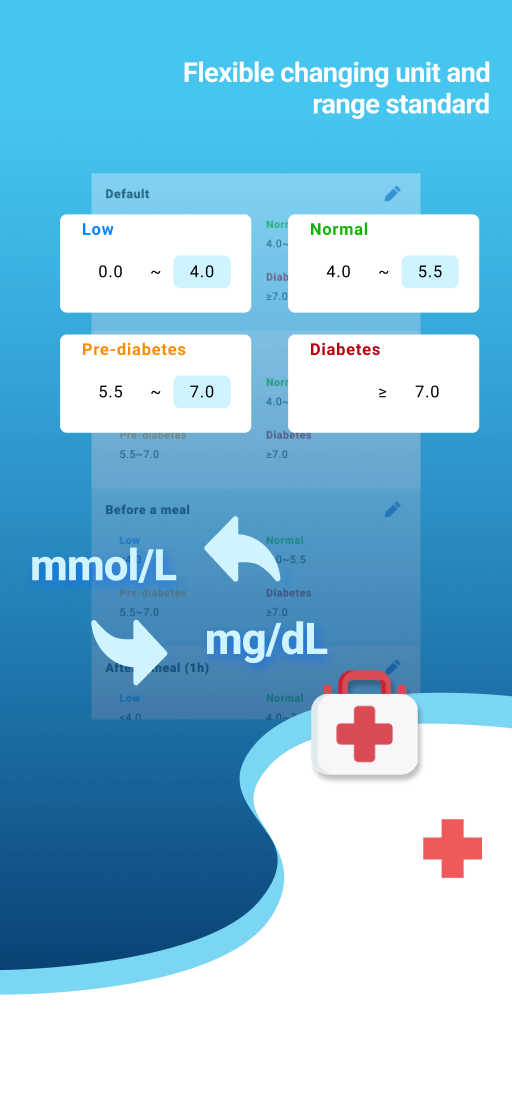
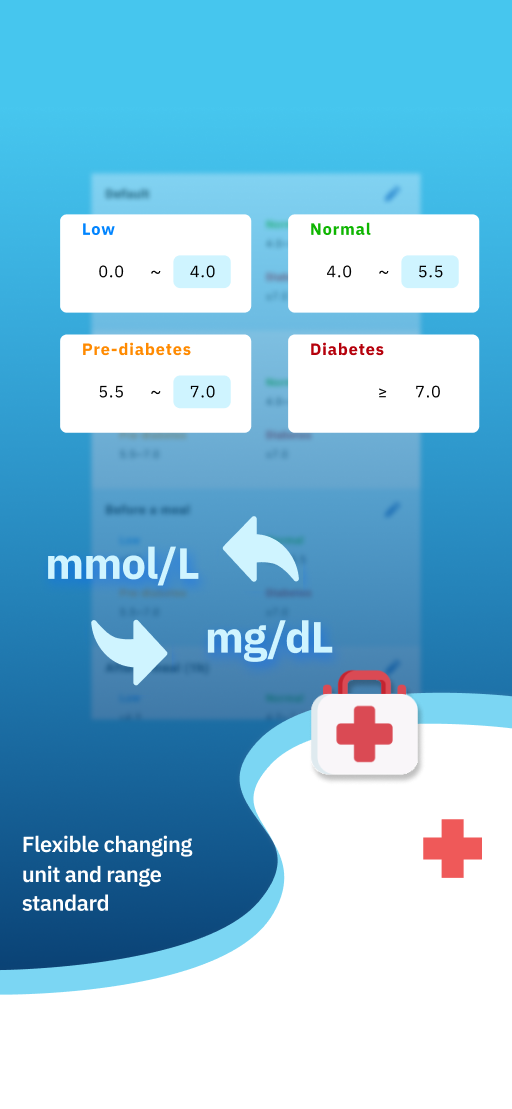
fix ui slpash

diff --git a/lib/views/splash/splash_intro.dart b/lib/views/splash/splash_intro.dart
@@ -44,6 +44,7 @@ class _IntroScreenState extends State<IntroScreen> {
         children: [
           Expanded(
             child: Stack(
+              alignment: Alignment.topRight,
               children: [
                 PageView.builder(
                     itemCount: intro.length,
@@ -58,6 +59,35 @@ class _IntroScreenState extends State<IntroScreen> {
                     itemBuilder: (_, index) {
                       return buildPage(intro[index]["img"]);
                     }),
+                indexPage == 2
+                    ? Container()
+                    : GestureDetector(
+                        onTap: () {
+                          shareLocal.putBools("isFirst", true);
+                          Navigator.pushNamedAndRemoveUntil(
+                            context,
+                            Routes.home,
+                            (route) => false,
+                          );
+                        },
+                        child: Container(
+                          margin: EdgeInsets.only(right: 16, top: MediaQuery.of(context).viewPadding.top + 5),
+                          width: 120,
+                          height: 36,
+                          padding: EdgeInsets.symmetric(horizontal: 25, vertical: 6),
+                          decoration: BoxDecoration(
+                            borderRadius: BorderRadius.circular(5),
+                            border: Border.all(
+                              color: Colors.white,
+                            ),
+                          ),
+                          child: Text(
+                            'Skip all',
+                            textAlign: TextAlign.center,
+                            style: AppTheme.TextIntroline16Text,
+                          ),
+                        ),
+                      ),
                 Container(
                   margin: EdgeInsets.only(bottom: 48, right: 16),
                   child: Column(
@@ -71,7 +101,7 @@ class _IntroScreenState extends State<IntroScreen> {
                           controller: _pageController,
                           count: 3,
                           effect: SlideEffect(
-                              radius: 5,
+                              radius: 2,
                               paintStyle: PaintingStyle.stroke,
                               strokeWidth: 1,
                               activeDotColor: AppColors.AppColor4,
@@ -80,66 +110,39 @@ class _IntroScreenState extends State<IntroScreen> {
                               dotWidth: 18),
                         ),
                       ),
-                      Row(
-                        mainAxisAlignment: MainAxisAlignment.end,
-                        children: [
-                          indexPage == 2
-                              ? Container()
-                              : GestureDetector(
-                                  onTap: () {
-                                    shareLocal.putBools("isFirst", true);
-                                    Navigator.pushNamedAndRemoveUntil(
-                                      context,
-                                      Routes.home,
-                                      (route) => false,
-                                    );
-                                  },
-                                  child: Container(
-                                    padding: EdgeInsets.symmetric(horizontal: 25, vertical: 11),
-                                    decoration: BoxDecoration(
-                                      color: Colors.white,
-                                      borderRadius: BorderRadius.circular(5),
-                                      border: Border.all(
-                                        color: AppColors.AppColor4,
-                                      ),
-                                    ),
-                                    child: Text(
-                                      'Skip all',
-                                      textAlign: TextAlign.center,
-                                      style: AppTheme.TextIntroline16Text,
-                                    ),
-                                  ),
-                                ),
-                          GestureDetector(
-                            onTap: () async {
-                              if (indexPage == 2) {
-                                shareLocal.putBools("isFirst", true);
-                                Navigator.pushNamedAndRemoveUntil(
-                                  context,
-                                  Routes.home,
-                                  (route) => false,
-                                );
-                              }
-                              _pageController.nextPage(
-                                duration: const Duration(milliseconds: 100),
-                                curve: Curves.bounceIn,
-                              );
-                            },
-                            child: Container(
-                              margin: EdgeInsets.only(left: 17),
-                              padding: EdgeInsets.symmetric(horizontal: 25, vertical: 11),
-                              decoration: BoxDecoration(
-                                borderRadius: BorderRadius.circular(5),
-                                color: AppColors.AppColor4,
-                              ),
-                              child: Text(
-                                indexPage == 2 ? 'Homepage' : 'Next step',
-                                textAlign: TextAlign.center,
-                                style: AppTheme.Headline16Text,
-                              ),
-                            ),
+                      GestureDetector(
+                        onTap: () async {
+                          if (indexPage == 2) {
+                            shareLocal.putBools("isFirst", true);
+                            Navigator.pushNamedAndRemoveUntil(
+                              context,
+                              Routes.home,
+                              (route) => false,
+                            );
+                          }
+                          _pageController.nextPage(
+                            duration: const Duration(milliseconds: 100),
+                            curve: Curves.bounceIn,
+                          );
+                        },
+                        child: Container(
+                          width: 120,
+                          height: 36,
+                          margin: EdgeInsets.only(left: 17),
+                          padding: EdgeInsets.symmetric(horizontal: 2, vertical: 6),
+                          decoration: BoxDecoration(
+                            gradient: LinearGradient(begin: Alignment.topCenter, end: Alignment.bottomCenter, colors: [
+                              AppColors.AppColor4,
+                              AppColors.AppColor2,
+                            ]),
+                            borderRadius: BorderRadius.circular(5),
                           ),
-                        ],
+                          child: Text(
+                            indexPage == 2 ? 'Homepage' : 'Next step',
+                            textAlign: TextAlign.center,
+                            style: AppTheme.Headline16Text,
+                          ),
+                        ),
                       ),
                     ],
                   ),

diff --git a/lib/views/splash/splash_screen.dart b/lib/views/splash/splash_screen.dart
@@ -54,10 +54,9 @@ class _SplashScreenState extends State<SplashScreen> {
   }
 
   void didChangeDependencies() {
-     sugarInfoStore = Provider.of<SugarInfoStore>(context, listen: true);
+    sugarInfoStore = Provider.of<SugarInfoStore>(context, listen: true);
     super.didChangeDependencies();
   }
-
 
   Future<String> getJson() {
     return rootBundle.loadString(jsonPath);
@@ -97,7 +96,6 @@ class _SplashScreenState extends State<SplashScreen> {
   }
 
   @override
-  @override
   Widget build(BuildContext context) {
     double width = MediaQuery.of(context).size.width;
     double height = MediaQuery.of(context).size.height;
@@ -105,9 +103,7 @@ class _SplashScreenState extends State<SplashScreen> {
       body: Container(
         width: width,
         height: height,
-        decoration: BoxDecoration(
-            image: DecorationImage(
-                image: AssetImage(Assets.splash), fit: BoxFit.cover)),
+        decoration: BoxDecoration(image: DecorationImage(image: AssetImage(Assets.splash), fit: BoxFit.cover)),
         child: Column(
           mainAxisAlignment: MainAxisAlignment.center,
           children: [

diff --git a/lib/constants/app_theme.dart b/lib/constants/app_theme.dart
@@ -92,7 +92,7 @@ class AppTheme {
     fontWeight: FontWeight.w600,
     decoration: TextDecoration.none,
     // height: 0.95,
-    fontSize:TextSizeConfig.getAdjustedFontSize(16),
+    fontSize: TextSizeConfig.getAdjustedFontSize(16),
     fontFamily: FontFamily.roboto,
   );
 
@@ -103,13 +103,13 @@ class AppTheme {
     // height: 0.95,
     fontSize: TextSizeConfig.getAdjustedFontSize(12),
   );
-  
-  static final TextStyle TextIntroline16Text = TextStyle(
-    color: AppColors.AppColor4,
+
+  static final TextIntroline16Text = TextStyle(
+    color: Colors.white,
     fontWeight: FontWeight.w600,
     decoration: TextDecoration.none,
     // height: 0.95,
     fontSize: TextSizeConfig.getAdjustedFontSize(16),
-    fontFamily: FontFamily.roboto,
+    fontFamily: "IBMPlexSans",
   );
 }

diff --git a/lib/views/home/average_info_slide_bar/average_info_slidebar_item.dart b/lib/views/home/average_info_slide_bar/average_info_slidebar_item.dart
@@ -30,7 +30,7 @@ class _AverageInfoSlideBarItemWidgetState extends State<AverageInfoSlideBarItemW
             Radius.circular(5),
           ),
           color: AppColors.AppColor3),
-      padding: EdgeInsets.symmetric(horizontal: 16, vertical: 12),
+      padding: EdgeInsets.symmetric(horizontal: 16, vertical: 12), 
       child: Column(
         crossAxisAlignment: CrossAxisAlignment.start,
         children: [
